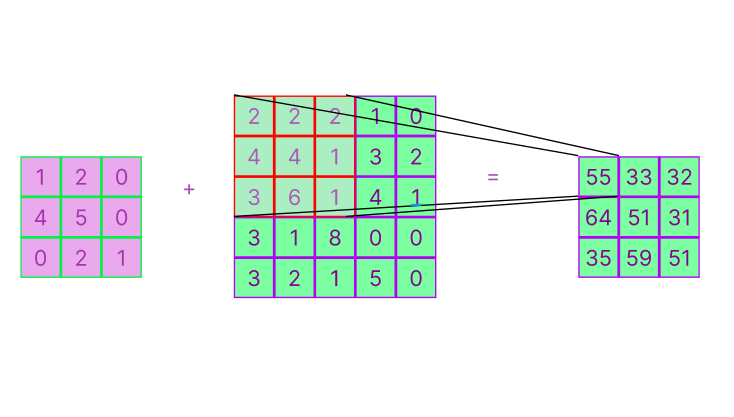
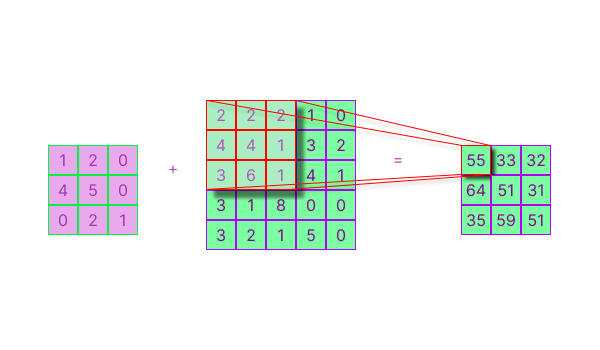
update images, add some text to lectures

Changed region(s): [[0.3, 0.2286, 0.96, 0.7143], [0.0, 0.3714, 0.27, 0.6857]]

diff --git a/chapter4/lecture4.md b/chapter4/lecture4.md
@@ -1,12 +1,13 @@
 <p xmlns:cc="http://creativecommons.org/ns#" xmlns:dct="http://purl.org/dc/terms/"><a property="dct:title" rel="cc:attributionURL" href="https://github.com/introduction_to_cv_and_ml">Computer vision and machine learning</a> by <a rel="cc:attributionURL dct:creator" property="cc:attributionName" href="https://github.com/kzvyagin">Konstantin Zvyagin</a> is licensed under <a href="http://creativecommons.org/licenses/by/4.0/?ref=chooser-v1" target="_blank" rel="license noopener noreferrer" style="display:inline-block;">CC BY 4.0<img style="height:22px!important;margin-left:3px;vertical-align:text-bottom;" src="https://mirrors.creativecommons.org/presskit/icons/cc.svg?ref=chooser-v1"> <img style="height:22px!important;margin-left:3px;vertical-align:text-bottom;" src="https://mirrors.creativecommons.org/presskit/icons/by.svg?ref=chooser-v1"></a></p>
 
-- Построение вектора признаков изображения.  2
-  - Типовые признаки на изображениях. 2
+-  Построение вектора признаков изображения.  2
+  - 1 Типовые признаки на изображениях. 2
+    1.1 Геометрические 6
     - 1.1.1 Особые точки 2
     - 1.1.2 Границы объекта 3
     - 1.1.3 Форма объекта 3
     - 1.1.4 Размеры объекта 3
-    - 1.2 яркостные признаки 3
+    1.2 яркостные признаки 3
     - 1.2.1 Экстремумы 4
     - 1.2.2 Частотные признаки 4
     - 1.2.3 Гистограммные признаки 4
@@ -29,3 +30,95 @@
 - Методы оценки достоверности работы классификации 33
   - Метрики качества регрессии 33
   - Метрики качества классификации 34
+
+
+<h1> Построение вектора признаков изображения.<h1>
+
+<h2> Типовые признаки на изображениях.</h2>
+
+<h2>Геометрические.</h2>
+
+<h3> Особые точки.</h3>
+
+Объекты могут иметь свойственные им геометрические особые точки. Например, особыми точками прямоугольника являются четыре его вершины, а отрезка два конца отрезка. Одними из особых точек объектов на изображении являются крайние точки фигуры объекта. районе точки объекта: вершины углов фигуры этого объекта; самая верхняя и самая нижняя точки фигуры объекта относительно координатных осей; левая нижняя, левая верхняя, правая нижняя, правая верхняя точки фигуры объекта; концы линий. особые точки используются для вычисления вторичных признаков.
+
+
+<h3> Границы объекта </h3>
+
+Края объекта формируют его границы. Границы объекта являются связными контурными линиями объекта, которые характеризуют его форму . Данный признак используется для вычисления таких геометрических признаков, как размер, форма и ориентация объекта. Границы являются вторичными признаками.
+
+<h3>  Форма объекта</h3>
+
+Форма объекта определяется контуром и границами объекта, характеризуется наличием дыр, отношением площади к периметру, вытянутостью, округлостью объекта. Геометрические признаки, определяющие форму объекта, состоят из периметра, площади, минимального и максимального радиусов, углов, степени округленности объекта, кривизны объекта, степени симметрии объекта. Норма является вторичным признаком.
+
+<h3>Размеры объекта</h3>
+
+
+Размерным признакам можно отнести количество пикселей объекта, его длину, ширину, габариты.
+
+
+<h2> Яркостные признаки</h2>
+
+Использование данных признаков применимо к цветным, полутоновым и бинарным изображениям. Данные признаки описывают изменения локальной энергии изображения перепады в яркостях пикселей, составляющих изображение. Например, если на изображении присутствует относительно равномерный фон, а на фоне располагается объект с отличающейся от фона яркостью, то в данном случае границы объекта формируются яркостными признаками, так как имеются перепады в уровнях яркостей фона и объекта.
+
+
+
+<h3> Экстремумы</h3>
+
+Экстремум это максимальное или минимальное значение пикселя или пикселей на изображении. Если он вычисляется на всем изображении, то это глобальный экстремум, если на области изображения то локальный. Экстремумы являются первичными признаками.
+
+
+<h3>  Частотные признаки</h3>
+
+Некоторые преобразования, например Фурье, позволяют сформировать частотное представление изображения, по которому можно вычислить частотные признаки. Высокочастотные признаки используются для обнаружения краев и границ, угловые щели используются для определения ориентации. Например, изображение, содержащее несколько параллельных линий с углом ориентации �, даст четкую энергию в частотном пространстве вдоль линии с углом pi + �, проходящей через начало координат преобразования Фурье. ѕоско2льку сначала вычисляется частотное представление изображения, а на частотном пространстве частотные признаки, то они являются вторичными.
+
+<h2> Гистограммные признаки</h2>
+
+Гистограммные признаки являются статистическими и описывают распределение яркости изображения.   этому типу признаков относят среднее значение, стандартное отклонение, искажение, энергию, энтропию. Гистограммные признаки являются вторичными.
+
+
+<h3> Моменты</h3>
+
+<b>Моменты изображения</b> ( англ. image moments) в компьютерном зрении, обработке изображений и смежных областях — некоторые частные средневзвешенные (момент) интенсивностей пикселей изображения, или функция таких моментов. Как правило, выбираются моменты, имеющие полезные свойства или интерпретации.
+
+В самом общем смысле момент функции — это некая скалярная величина, которая характеризует эту функцию и может быть использована для артикуляции её важных свойств. С математической точки зрения набор моментов является в некотором смысле «проекцией» функции на полиномиальный базис. Он аналогичен преобразованию Фурье, которое представляет из себя проекцию функции на базис из гармонических функций.
+
+Моменты изображения полезны для описания объектов после сегментации. Простые свойства изображения, которые можно найти с помощью моментов, включают в себя площадь (или суммарную интенсивность), геометрический центр и информацию об ориентации. Кроме них в математической статистике давно применяются моменты более высоких порядков, например коэффициент асимметрии и коэффициент эксцесса.
+
+
+<h2>Текстурные признаки</h2>
+
+
+Текстуры встречаются на самых разных изображениях, например на изображениях песка, зерна, травы, ткани. Термин "текстура” связан с повторением базовых элементов текстур текселей. Тексель содержит несколько пикселей, расположение которых периодичное, квазипериодичное или случайное. Природные текстуры обычно случайные, в то время как искусственные очень часто периодические. Текстуры могут быть грубыми, тонкими, размытыми, гранулированными, регулярными, нерегулярными, линейными. Текстуры обычно делятся на структурные и стохастические . 
+
+Бывают следующих видов
+
+
+    • Контраст 
+    • Корреляция
+    • Угловой момент второго порядка 
+    • Сумма дисперсий 
+    • Сумма энтропии
+    • Энтропия
+
+
+
+<h1>Классификация.</h1>
+
+
+Классификация — распределение данных по параметрам. Например, на вход дается набор людей и нужно решить, кому из них давать кредит, а кому нет. Эту работу может сделать решающее дерево, алгоритм KNN(K ближайших соседей), нейронная сеть и другие. Для этого алгоритму потребуются проанализировать такие фичи как: возраст, платежеспособность, кредитная история и т.д.
+
+
+<h2>Решающие деревья.</h2>
+
+Дерево решений - это один из самых популярных алгоритмов машинного обучения. Сама концепция появилась достаточно давно и уходит в 1930-1950 года. Начало активного использования решающих деревьев связано с публикациями двух алгоритмов построения решающих деревьев, а именно ID3 и CART. Они были изобретены независимо примерно в одно и то же время (между 1970 и 1980 годами).
+
+Деревья решений используются как для задач классификации, так и для регрессии. Сегодня мы поговорим о классификации.
+
+Прежде чем мы углубимся, зададим себе простой вопрос, почему именно решающие деревья? У нас есть и другие алгоритмы, так почему мы должны выбирать именно деревья решений?
+
+Решающие деревья часто имитирует мышление человеческого уровня, поэтому их так просто понять и сделать некоторые хорошие интерпретации.
+
+Деревья решений фактически позволяют увидеть логику для интерпретации данных (не как алгоритмы черного ящика, такие как NN и т. д.).
+
+Например: если мы классифицируем заявку на получение банковского кредита для клиента, дерево решений может выглядеть следующим образом:

diff --git a/chapter2/lecture2.md b/chapter2/lecture2.md
@@ -419,7 +419,7 @@ cvtColor(Image24, Gray, CV_BGR2GRAY);
 
 ```
 copyMakeBorder(
-    InputArray src, # входное изображение
+    InputArray src, /* входное изображение */
     OutputArray dst,
     int top, int bottom, int left, int right, /* задается рамка в пикселях */
     int borderType, # тип рамки 
@@ -428,7 +428,91 @@ copyMakeBorder(
 
 Поэкспериментировать с ней можете самостоятельно.
 
-Далее вернёмся к фильтрам
+Далее вернёмся к фильтрам.
+
+<h2>Фильтры часть2.</h2>
+
+
+Итак, сглаживание, или размытие, довольно часто встречается на этапе обработки изображений, поскольку позволяет удалить шумы и улучшить результат работы алгоритмов. Поэтому разберем, как можно реализовать такую операцию средствами OpenCV.
+Самый простой вариант размытия реализован в OpenCV в виде функции blur().
+```
+img_new = cv2.blur(
+	img, // входное изображение
+	ksize, // размер ядра
+	anchor, // положение якорной точки
+	bType, // тип рамки
+)
+```
+
+Такой фильтр вычисляет для каждого пикселя нормированное среднее значение по всем пикселям. В аргумент img передается входное изображение. Размер фильтра (ядра) задается во втором аргументе – ksize. В этот аргумент нужно передать кортеж из двух элементов – ширины и высоты фильтра.
+
+Положение якорной точки можно указать, передав его в аргумент anchor. По умолчанию якорная точка находится в центре фильтра. Тип границы можно передать в аргумент bType, если имеется необходимость изменить тип по умолчанию – cv2.BORDER_DEFAULT – на какой-либо другой. Значение cv2.BORDER_WRAP не поддерживается. Возвращаемое значение функции новое изображение. Функцию можно применять как к одноканальным, так и к многоканальным изображениям. Во втором случае каждый канал обрабатывается отдельно.
+
+Данная функция является частным случаем прямоугольного фильтра, который в OpenCV реализован в функции boxFilter().
+
+```
+img_new = cv2.boxFilter(
+	img,       // входное изображение
+	ddepth,    // глубина изображения-результата
+	ksize,     // размер ядра
+	anchor,    // положение якорной точки
+	normalize, // нормирование (если True)
+	bType      // тип рамки
+)
+```
+
+Прямоугольным называется такой фильтр, все элементы которого равны. Аргументы img, ksize, anchor и bType соответствуют одноименным аргументам функции blur(). Наличие аргумента ddepth – первое отличие функции boxFilter() от функции blur(). В функции blur() глубина выходного изображения совпадает с глубиной входного. Такое же поведение будет у функции boxFilter(), если передать в этот аргумент значение -1 При необходимости можно указать любое другое поддерживаемое значение глубины. Данный фильтр может быть нормированным и ненормированным. Этот параметр регулируется аргументом normalize: нормированный, если значение аргумента – True, и ненормированный, если значение аргумента – False. По умолчанию аргумент имеет значение True. В первом случае значение каждого элемента будет делиться на площадь фильтра, то есть сумму его элементов. Пример ненормированного прямоугольного фильтра уже приводился, например, на рис. 2.1, а. Для прямоугольного фильтра размером 5 на 5, все элементы которого равны 1, нормирование будет осуществляться делением каждого элемента на 25
+
+<i>Теперь время практики, необходимо поэкспериментировать с изображениями.</i>
+
+Среди фильтров, позволяющих осуществить сглаживание изображения, существует также один пример нелинейного фильтра – медианный фильтр. При применении этого фильтра значения пикселя заменяются на медианное значение,а не на среднее арифметическое. Для каждого пикселя рассматриваются значения внутри прямоугольной области, которая определяется размером фильтра.
+
+Достоинством медианного фильтра перед прямоугольным является способность игнорировать выбросы – пиксели, значения которых сильно отличаются от соседних. В случае с расчетом среднего арифметического их значения могут оказать существенное влияние на результат. Так как в медианном фильтре выбирается точка со средним значением, такие выбросы на результат не влияют. В OpenCV медианный фильтр можно применить с помощью функции medianBlur().
+
+```
+img_new = cv2.medianBlur(
+	img,  // входное изображение
+	ksize // размер ядра
+)
+```
+
+
+Единственная пара параметров, которые можно указать для этой функции – входное изображение и размер ядра. Входное изображение задается так же, как для других фильтров – передается в аргумент img. А вот задание размера ядра отличается. В аргумент ksize здесь нужно передать не кортеж из двух элементов, а целое число. Возвращаемое значение функции – новое изображение. Результат применения данного фильтра к тому же набору изображений представлен на рис. 1.5.
+
+![ Результат применения фильтра blur. ](https://raw.githubusercontent.com/kzvyagin/introduction_to_cv_and_ml/main/chapter2/images/bluer_1.5.png)
+
+Рисунок 1.5. Результат применения фильтра blur, слева исходное изображение, справа изображение с применением фильтра blur. 
+
+
+<h3>Фильтр Гаусса</h3>
+
+На практике для сглаживания часто применяются фильтры на основе нор-
+мального распределения. Одним из наиболее популярных способов сглаживания изображения является фильтр Гаусса. Для каждого пикселя вычисляется взвешенное среднее значение самого пикселя и его соседей. Веса в функции зависят от расстояния между центральным пикселем и соответствующим соседним.
+В OpenCV он реализован в функции GaussianBlur(). При применении данной функции будет использовано нормированное ядро.
+
+```
+img_new = cv2.GaussianBlur(
+	img,    // входное изображение
+	ksize,  // размер ядра
+	sigmaX, // сигма по оси X
+	sigmaY, // сигма по оси Y
+	bType   // тип рамки
+)
+```
+Аргументы img, ksize и bType совпадают с одноименными аргументами для функций blur() и boxFilter().
+
+
+Величина сигмы влияет на то, какие соседи имеют больший вес. Чем больше сигма, тем больше вес удаленных точек и тем меньше вес центральных. Ядро в некотором смысле «растягивается», более равномерно распределяя веса по всем соседям. Если же значение сигмы маленькое, то точки около центра ядра будут иметь очень большое значение, а удаленные от центра точки будут иметь вес, практически равный нулю. Можно отдельно задавать сигму для расстояний по оси X и по оси Y. Примеры ядер для разных параметров сигма можно увидеть на рис. 1.6. Для выбора одинаковых значений параметров сигма не обязательно задавать значения в оба аргумента – sigmaX и sigmaY. В случае если sigmaY равно 0, этот параметр выбирается равным sigmaX.
+
+
+![ Ядра для разных параметров сигма. ](https://raw.githubusercontent.com/kzvyagin/introduction_to_cv_and_ml/main/chapter2/images/gauss_core_1.6.png)
+
+Рисунок 1.6. Ядра для разных параметров сигма. 
+
+В случае если в оба аргумента передать значения 0, расчет значений будет
+выполняться по формуле 2.5:
+
+
 
 
 
